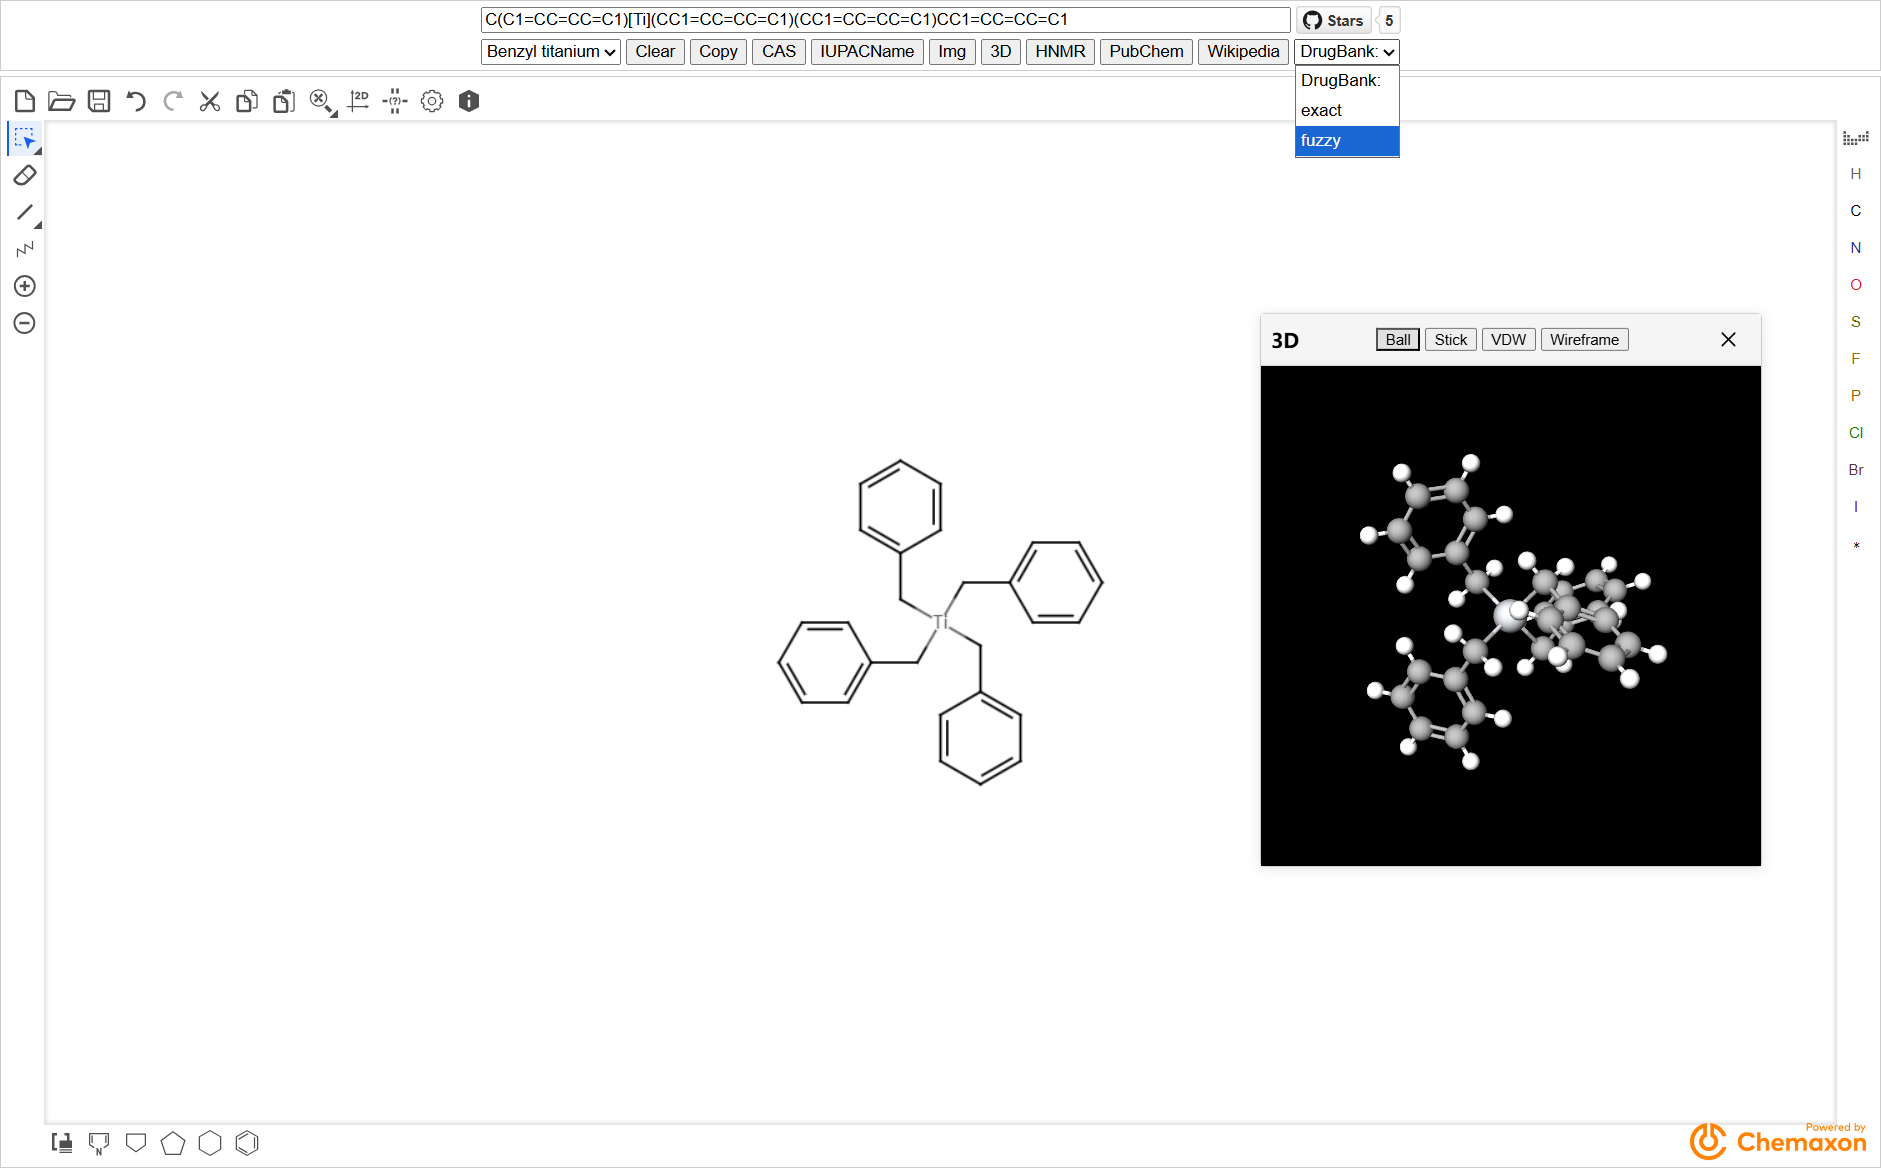
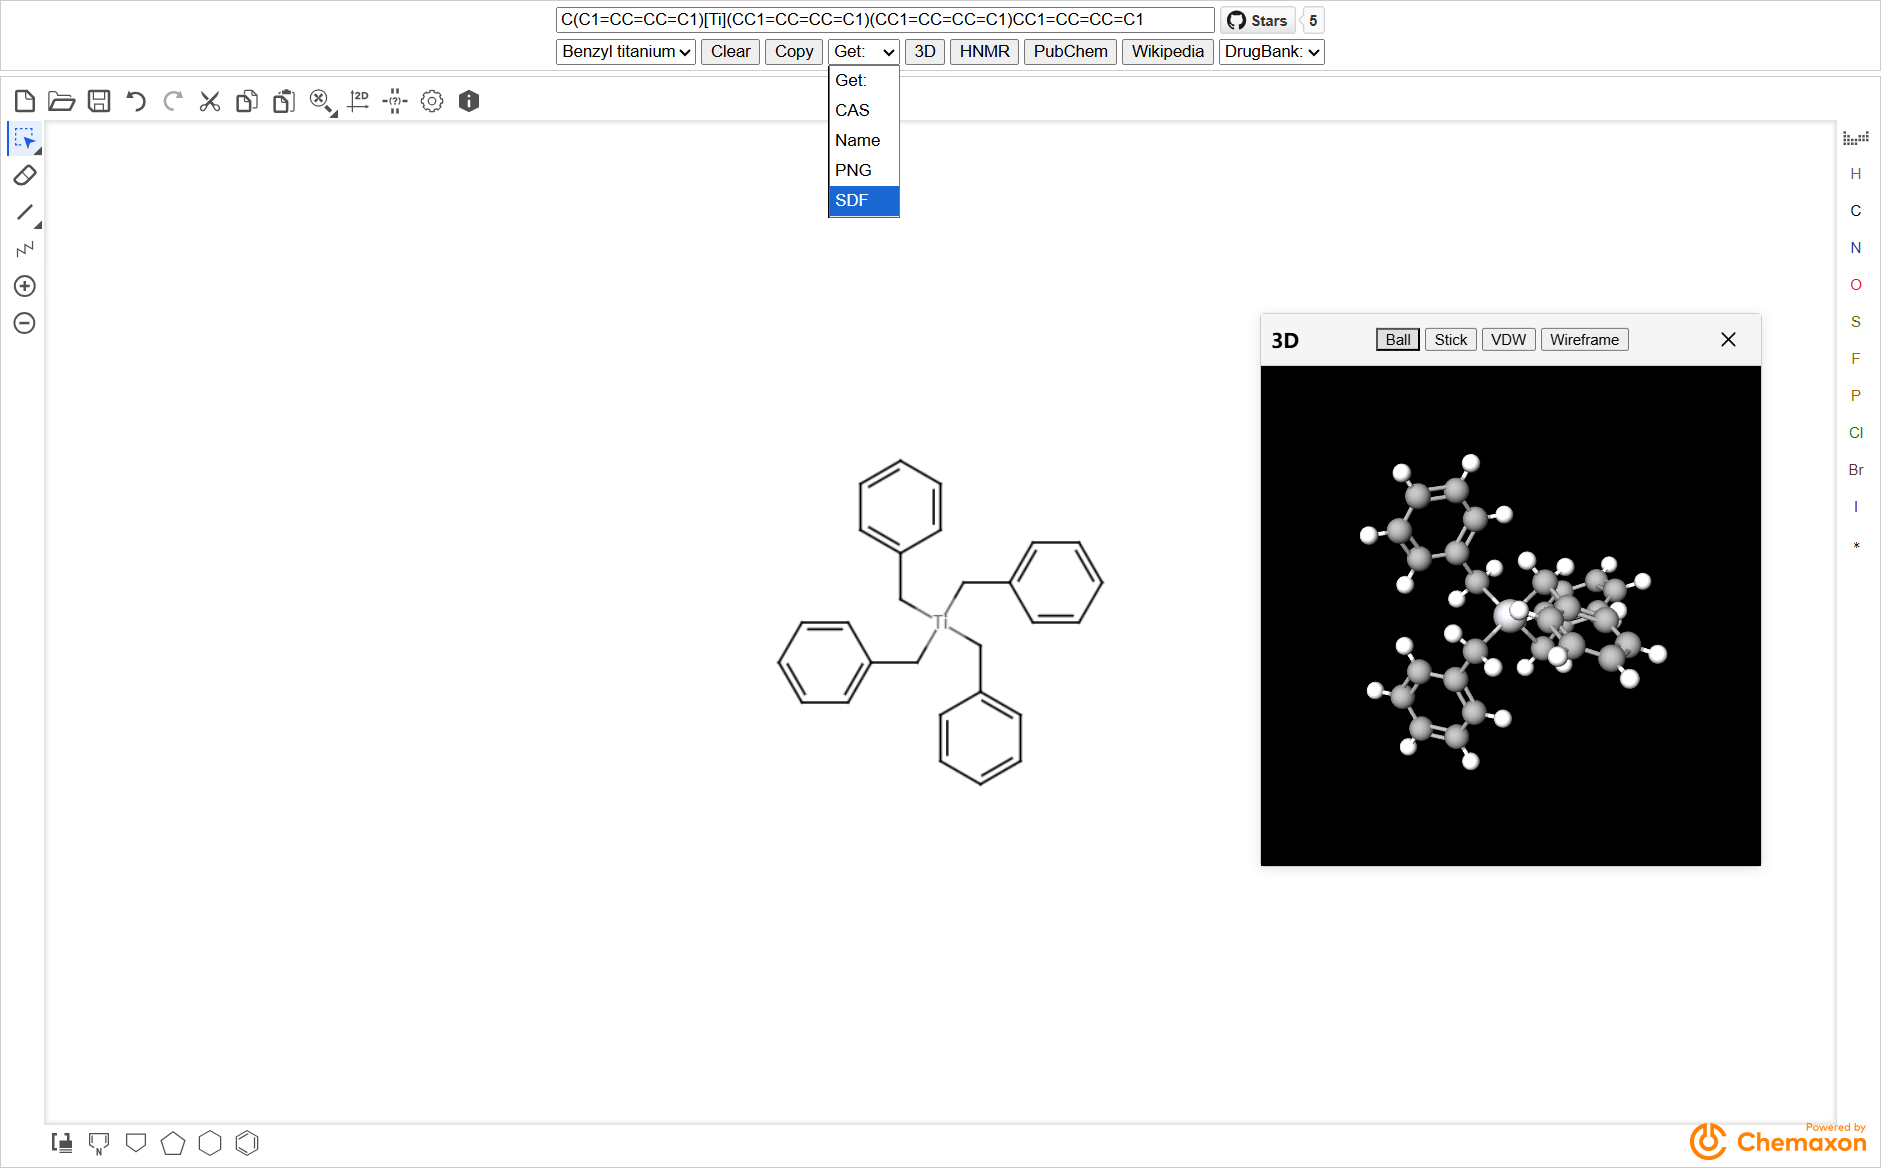
add .sdf download

Changed region(s): [[0.2467, 0.0, 0.74, 0.1849]]

diff --git a/src/components/ControlPanel.vue b/src/components/ControlPanel.vue
@@ -34,9 +34,13 @@
         </select>
         <button @click="handleClear">Clear</button>
         <button @click="handleCopy">Copy</button>
-        <button @click="handleGetCAS">CAS</button>
-        <button @click="handleGetIUPACName">IUPACName</button>
-        <button @click="handlePubChemImage">Img</button>
+        <select @change="handleGetSelect" class="get-select">
+          <option value="">Get:</option>
+          <option value="cas">CAS</option>
+          <option value="iupac">Name</option>
+          <option value="img">PNG</option>
+          <option value="sdf">SDF</option>
+        </select>
         <button @click="handle3DView">3D</button>
         <button @click="handleHNMR">HNMR</button>
         <button @click="handlePubChem">PubChem</button>
@@ -371,6 +375,50 @@ export default {
       if (!this.smilesValue) return;
       const url = `https://go.drugbank.com/structures/search/small_molecule_drugs/structure?utf8=✓&searcher=structure&structure_search_type=substructure&structure=${encodeURIComponent(this.smilesValue)}#results`;
       window.open(url, '_blank');
+    },
+
+    handleGetSelect(event) {
+      const value = event.target.value;
+      if (!this.smilesValue || !value) return;
+      if (value === 'cas') {
+        this.handleGetCAS();
+      } else if (value === 'iupac') {
+        this.handleGetIUPACName();
+      } else if (value === 'img') {
+        this.handlePubChemImage();
+      } else if (value === 'sdf') {
+        this.handleGetSDF();
+      }
+      event.target.value = '';
+    },
+
+    async handleGetSDF() {
+      if (!this.smilesValue) return;
+      this.loading = true;
+      try {
+        const cid = await getPubChemCID(this.smilesValue);
+        if (!cid) {
+          alert('未找到对应的化合物');
+          return;
+        }
+        const baseUrl = `https://pubchem.ncbi.nlm.nih.gov/rest/pug/compound/cid/${cid}/record/SDF`;
+        let sdfUrl = `${baseUrl}?record_type=3d&response_type=save&response_basename=Conformer3D_COMPOUND_CID_${cid}`;
+        let response = await fetch(sdfUrl, { method: 'HEAD' });
+        if (!response.ok) {
+          sdfUrl = `${baseUrl}?record_type=2d&response_type=save&response_basename=Compound2D_COMPOUND_CID_${cid}`;
+          response = await fetch(sdfUrl, { method: 'HEAD' });
+          if (!response.ok) {
+            alert('该化合物在PubChem中没有3D或2D结构数据');
+            return;
+          }
+        }
+        window.location.href = sdfUrl;
+      } catch (error) {
+        console.error('获取SDF时出错:', error);
+        alert('获取SDF失败，请检查网络连接');
+      } finally {
+        this.loading = false;
+      }
     }
   }
 }
@@ -398,7 +446,7 @@ export default {
   display: flex;
   align-items: center;
   width: 100%;
-  max-width: 736px;
+  max-width: 615px;
   gap: 4px;
 }
 
@@ -438,7 +486,7 @@ export default {
   z-index: 9999;
 }
 
-@media screen and (max-width: 760px) {
+@media screen and (max-width: 640px) {
   .button-group {
     flex-direction: row;
     flex-wrap: wrap;

diff --git a/src/components/MarvinEditor.vue b/src/components/MarvinEditor.vue
@@ -35,7 +35,7 @@ export default {
   flex-direction: column;
   align-items: center;
 }
-@media screen and (max-width: 760px) {
+@media screen and (max-width: 640px) {
   .control-panel {
     height: 75vh;
     margin-bottom: 0;

diff --git a/README.md b/README.md
@@ -29,9 +29,11 @@ Powered by [Chemaxon](https://chemaxon.com)
     - Fluoxetine
 - Clear
 - Copy
-- 获取CAS
-- 获取IUPACName
-- 获取Img
+- Get:
+    - CAS
+    - (IUPAC)Name
+    - PNG
+    - SDF
 - 3D可视化
     - 可与结构式，smiles进行实时更新
     - 种类
